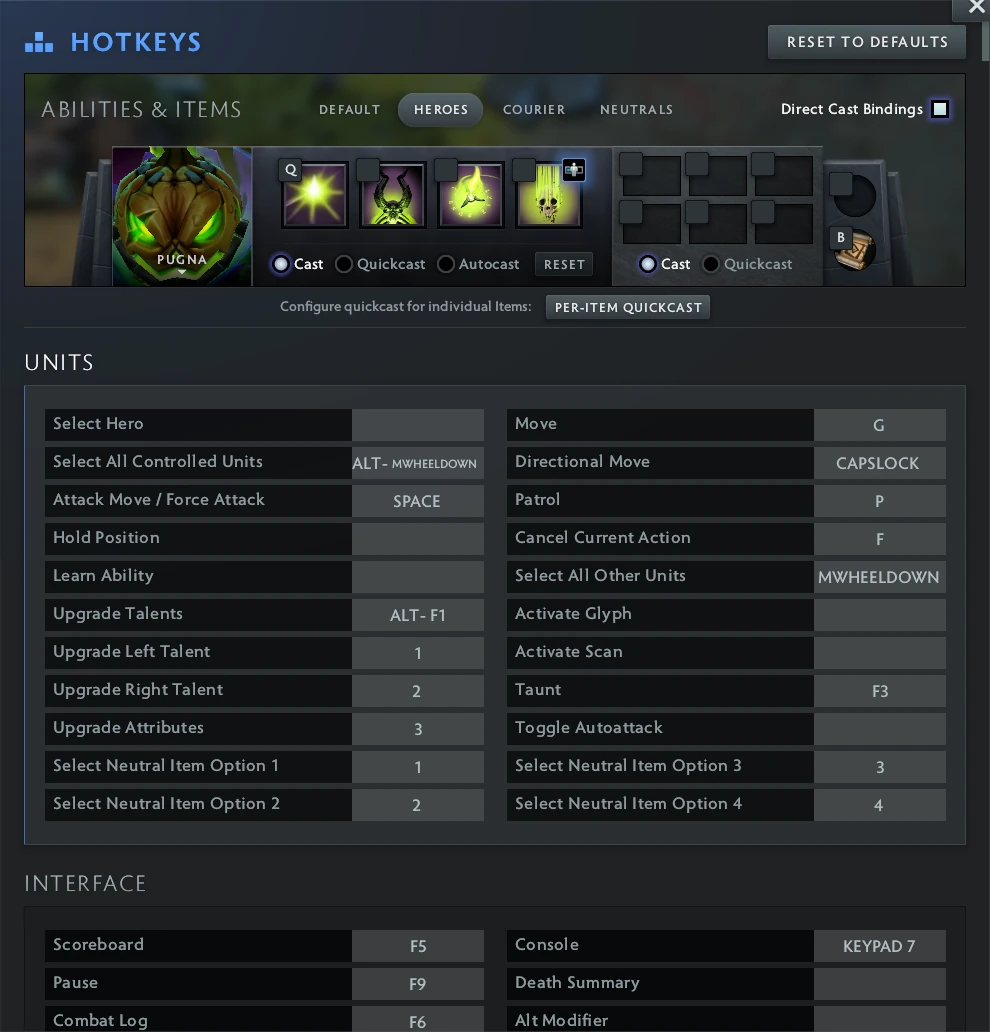
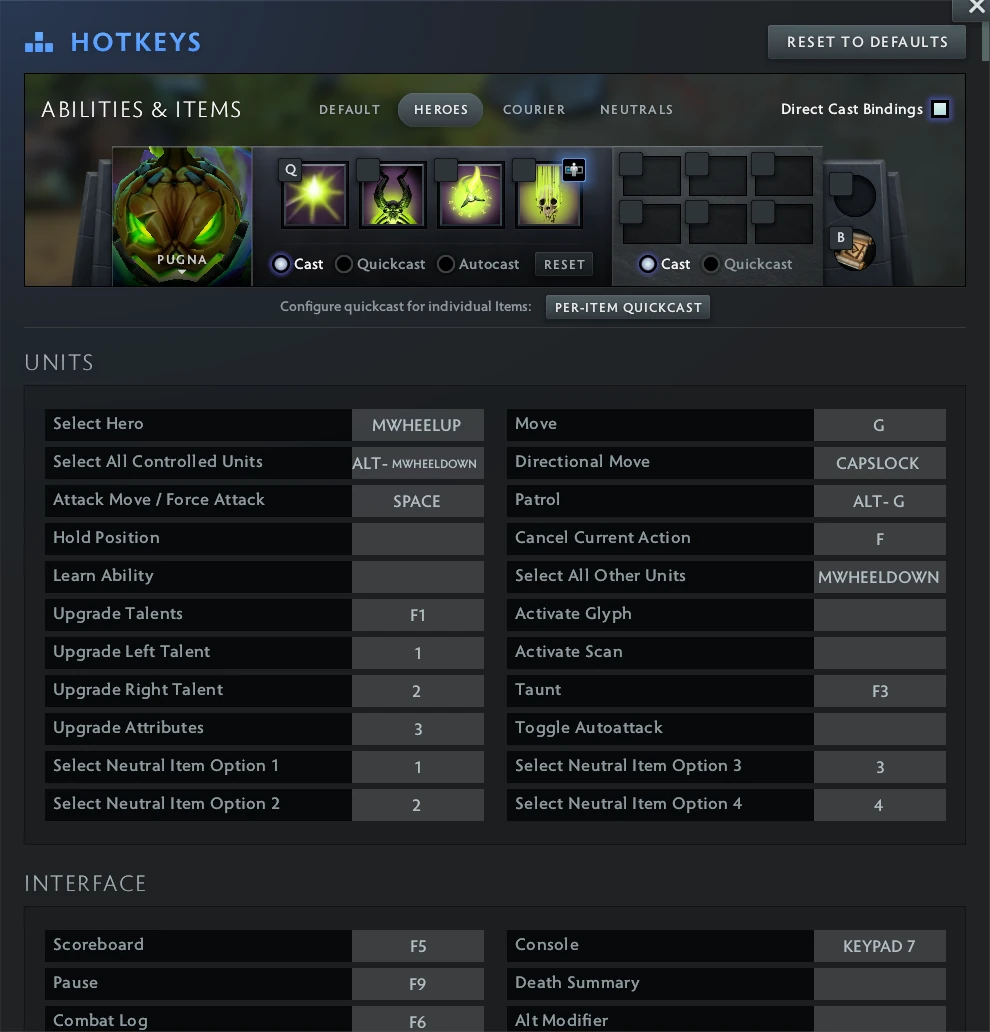
small

diff --git a/docs/html/sections/section-20-talent.html b/docs/html/sections/section-20-talent.html
@@ -14,7 +14,7 @@
     <p class="mt2">
       There was a period of my life when I was a Turbo enjoyer where it's not rare to get a big level up in the middle of a fight.<br><br>
 
-      That's how I found out that having a hotkey for <act>Upgrade Talent</act> is more comfortable than not having it. <br>
+      That's how I found out that having a hotkey for <act>Upgrade Talent</act> is more comfortable than not having it.<br><br>
       I felt annoyed I had to click the plus icon with my mouse.<br>
       This might sounds ridiculous but it's true.
     </p>
@@ -28,31 +28,39 @@
       Because <kk>F1</kk> is at the very top of the keyboard, this motion feels like I'm <b>reaching</b> for an <b><u>up</u></b>grade.
     </p>
 
-    <p class="mt2">
-     The problem with <act>Upgrade Talent</act><kk>F1</kk> is that it might be <i>too good</i> of a hotkey.<br><br>
-     
-     You could "demote" it to something like <kk>U</kk> for <b>U</b>pgrade, but I believe <kk>Alt</kk><kk>F1</kk> to be the best, and here's why.
-    </p>
-
     <ul>
-      <li><b>Upgrade Talent</b> <kk>Alt</kk> &nbsp; + &nbsp; <kk>F1</kk></li>
+      <li><b>Upgrade Talent</b> <kk>F1</kk></li>
       <li><b>Left Talent</b> <kk>1</kk></li>
       <li><b>Right Talent</b> <kk>2</kk></li>
       <li><b>Attributes</b> <kk>3</kk> &nbsp; or &nbsp; <kk>none</kk></li>
     </ul>
 
+    <div class="separator"></div>
+
     <p class="mt2">
-      We use <kk>Alt</kk><kk>1</kk> for <act>Open Shop</act>.<br><br>
+      Alternatively, if you want to free up <kk>F1</kk> you could 'demote' it to <kk>Alt</kk><kk>F1</kk>
+    </p>
 
-      And notice - both <act>Open Shop</act> and <act>Upgrade Talent</act> "open a HUD" layer.<br>
-      For both of which we now use <kk>Alt</kk> as a modifier.<br>
-      Which feels <b></i>very</i></b> neat.<br><br>
+    <ul>
+      <li><b>Upgrade Talent</b> <kk>ALT</kk><kk>F1</kk></li>
+    </ul>
 
-      This decision also frees up our <kk>F1</kk> for something else.<br><br>
+    <p class="mt2">
 
-      But most importantly we no longer occupy the <kk>F1</kk><kk>F2</kk><kk>F3</kk><kk>F4</kk> <b>block</b> with a "one-off" bind.<br><br>
+      I used this for a while.<br><br>
+      The upside is that you don't occupy the <kk>F1</kk><kk>F2</kk><kk>F3</kk><kk>F4</kk> "logical block" with a "one-off" bind.<br><br>
 
-      You'll see how this works out in a minute.
+      However, there are downsides.<br><br>
+
+      1. <kk>ALT</kk><kk>F1</kk> -> <kk>1</kk> is awkward because you <u><b>have to</b></u> let go of <kk>ALT</kk> to "actually select".<br><br>
+      And if you don't - you end up calling the shop actions that are bound to <kk>ALT</kk><kk>1</kk> and <kk>ALT</kk><kk>F2</kk>.<br><br>
+
+      2. You can't bind the "actually selecting" to <kk>ALT</kk><kk>1</kk> / <kk>ALT</kk><kk>2</kk>.<br>
+      Or technically - you <b>can</b>, but it just ends up pinging the talents into chat.<br><br>
+
+      3. Ergonomically it's just as not buttery smooth as <kk>F1</kk> -> <kk>1</kk> anyway.<br><br>
+
+      So <kk>F1</kk> -> <kk>1</kk> it is.
     </p>
 
     <div class="separator mt2"></div>
@@ -69,7 +77,7 @@
 
     <p class="mt2">
       You may also want to unbind <act>Upgrade Attributes</act> to prevent accidentally selecting it. <br>
-      Or put it slightly away to <kk>4</kk>
+      Or put it slightly further away to <kk>4</kk>
     </p>
 
   </div>

diff --git a/docs/html/sections/section-21-chat-wheel.html b/docs/html/sections/section-21-chat-wheel.html
@@ -14,11 +14,11 @@
     <img class="" src="assets/images/options/options-chat-wheel-icon.jpg" alt="dota 2 options chat wheel"> 
 
     <p>
-      <act>Chat Wheel</act> is something that I use all the time - and recommend it - so the hotkey has to be good.<br><br>
+      <act>Chat Wheel</act> is something that I use all the time - and I highly recommend it - so the hotkey has to be good.<br><br>
 
-      "<b>All-chat-things</b>" will go to our <kk>F1</kk><kk>F2</kk><kk>F3</kk><kk>F4</kk> <b>block</b><br><br>
+      "<b>All-chat-things</b>" will go to our <kk>F1</kk><kk>F2</kk><kk>F3</kk><kk>F4</kk> "logical block".<br><br>
 
-      Here are the actions that we want to have on hand<br><br>
+      Here are the actions that we want:<br><br>
 
       <act>Chat Wheel 1</act><br>
       <act>Chat Wheel 2</act><br>
@@ -27,25 +27,30 @@
     </p>
 
     <p class="mt2">
-      And it looks like we have the perfect amount of space for it:<br>
-      <kk>F1</kk><kk>F2</kk><kk>F3</kk><kk>F4</kk>
+      And looks like we have the perfect amount of space for it:<br>
+      <kk>F1</kk><kk>F2</kk><kk>F3</kk><kk>F4</kk><br><br>
+
+      I've been swapping my <kk>F1</kk> for a variety of things over the years, so I ended up with <act>Chat Wheel 1</act><kk>F2</kk><br><br>
+
+      I also settled on <act>Upgrade Talent</act><kk>F1</kk> - as we just discussed, so <act>Chat Wheel 1</act><kk>F2</kk> is just the next available key.<br><br>
+
+      It's all coming together.
     </p>
 
+    <div class="separator mt2"></div>
+
     <p class="mt2">
-      Since I have been swapping my <kk>F1</kk> for a variety of things over the years, I naturally ended up with <act>Chat Wheel 1</act><kk>F2</kk><br><br>
 
       <act>Chat Wheel 2</act> - if you use it at all - should land either on the next key or as an <kk>Alt</kk> variation.
+
+      <ul>
+        <li><b>Chat Wheel 1</b> <kk>F2</kk></li>
+        <li><b>Chat Wheel 2:</b> <kk>F2</kk> &nbsp; + &nbsp; <kk>Alt</kk></li>
+        <li><b>Chat Wheel 2:</b> <kk>F3</kk></li>
+      </ul>
+
     </p>
 
-    <ul>
-      <li><b>Chat Wheel 1</b> <kk>F2</kk></li>
-      <li><b>Chat Wheel 2:</b> <kk>F2</kk> &nbsp; + &nbsp; <kk>Alt</kk></li>
-      <li><b>Chat Wheel 2:</b> <kk>F3</kk></li>
-    </ul>
-
-    <p class="mt2">
-      You might want to bind it to <kk>F1</kk> though.
-    </p>
   </div>
 
 </div>

diff --git a/docs/html/sections/section-1-hotkeys-overview.html b/docs/html/sections/section-1-hotkeys-overview.html
@@ -23,6 +23,7 @@
       <li><b>Attack</b> <kk>Spacebar</kk></li>
       <li><b>Stop</b> <kk>F</kk></li>
       <li><b>Move</b> <kk>G</kk></li>
+      <li><b>Patrol</b> <kk>ALT</kk><kk>G</kk></li>
       <li class="separator"><b>Directional Move</b> <kk>CapsLock</kk></li>
 
       <li><b>Select Group 1 - 9</b> <kk>1</kk> &nbsp; - &nbsp; <kk>9</kk></li>
@@ -34,7 +35,7 @@
       <li><b>Courier Burst</b> <kk>Alt</kk> &nbsp; + &nbsp; <kk>4</kk></li>
       <li class="separator"><b>Buy Sticky</b> <kk>Alt</kk> &nbsp; + &nbsp; <kk>5</kk></li>
 
-      <li><b>Upgrade Talent</b> <kk>Alt</kk> &nbsp; + &nbsp; <kk>F1</kk></li>
+      <li><b>Upgrade Talent</b> <kk>F1</kk></li>
       <li><b>Left Talent</b> <kk>1</kk></li>
       <li class="separator"><b>Right Talent</b> <kk>2</kk></li>
 

diff --git a/docs/html/sections/section-24-command-select-units-advanced.html b/docs/html/sections/section-24-command-select-units-advanced.html
@@ -148,17 +148,17 @@
     </p>
 
     <ul>
+      <li><b>Select Hero</b> <kk>WheelUp</kk></li>
       <li><b>Select All Other Units</b> <kk>WheelDown</kk></li>
       <li><b>Select All Units</b> <kk>WheelDown</kk> &nbsp; + &nbsp; <kk>Alt</kk></li>
     </ul>
 
     <p class="mt2">
-      Now, these are weird binds.<br>
+      These are weird I know.<br>
       But this is what I'm currently using.<br>
       Sometimes.<br><br>
 
-      I manage most of my unit control using Control Groups anyway.<br>
-      So I just have these bound to something that's still available.
+      I manage most of my unit control using Control Groups anyway, so I just have these bound to something that's still available.
     </p>
 
     <div class="separator mt2"></div>

diff --git a/docs/html/sections/section-15-move.html b/docs/html/sections/section-15-move.html
@@ -50,12 +50,14 @@
 
     <ul>
       <li><b>Move</b> <kk>G</kk></li> 
+      <li><b>Patrol</b> <kk>ALT</kk><kk>G</kk></li> 
     </ul>
 
 
     <p class="mt2">
-      You could also use <kk>Capslock</kk> for <act>Move</act>, <br>
-      but it's better to leave it for <act>Directional Move</act>
+      And as a 'collateral' we bind <act>Patrol</act> to the <kk>ALT</kk> layer.<br><br>
+
+      Please notice, there's no "Quick Patrol", so it requires a left-click.
     </p>    
 
   </div>
